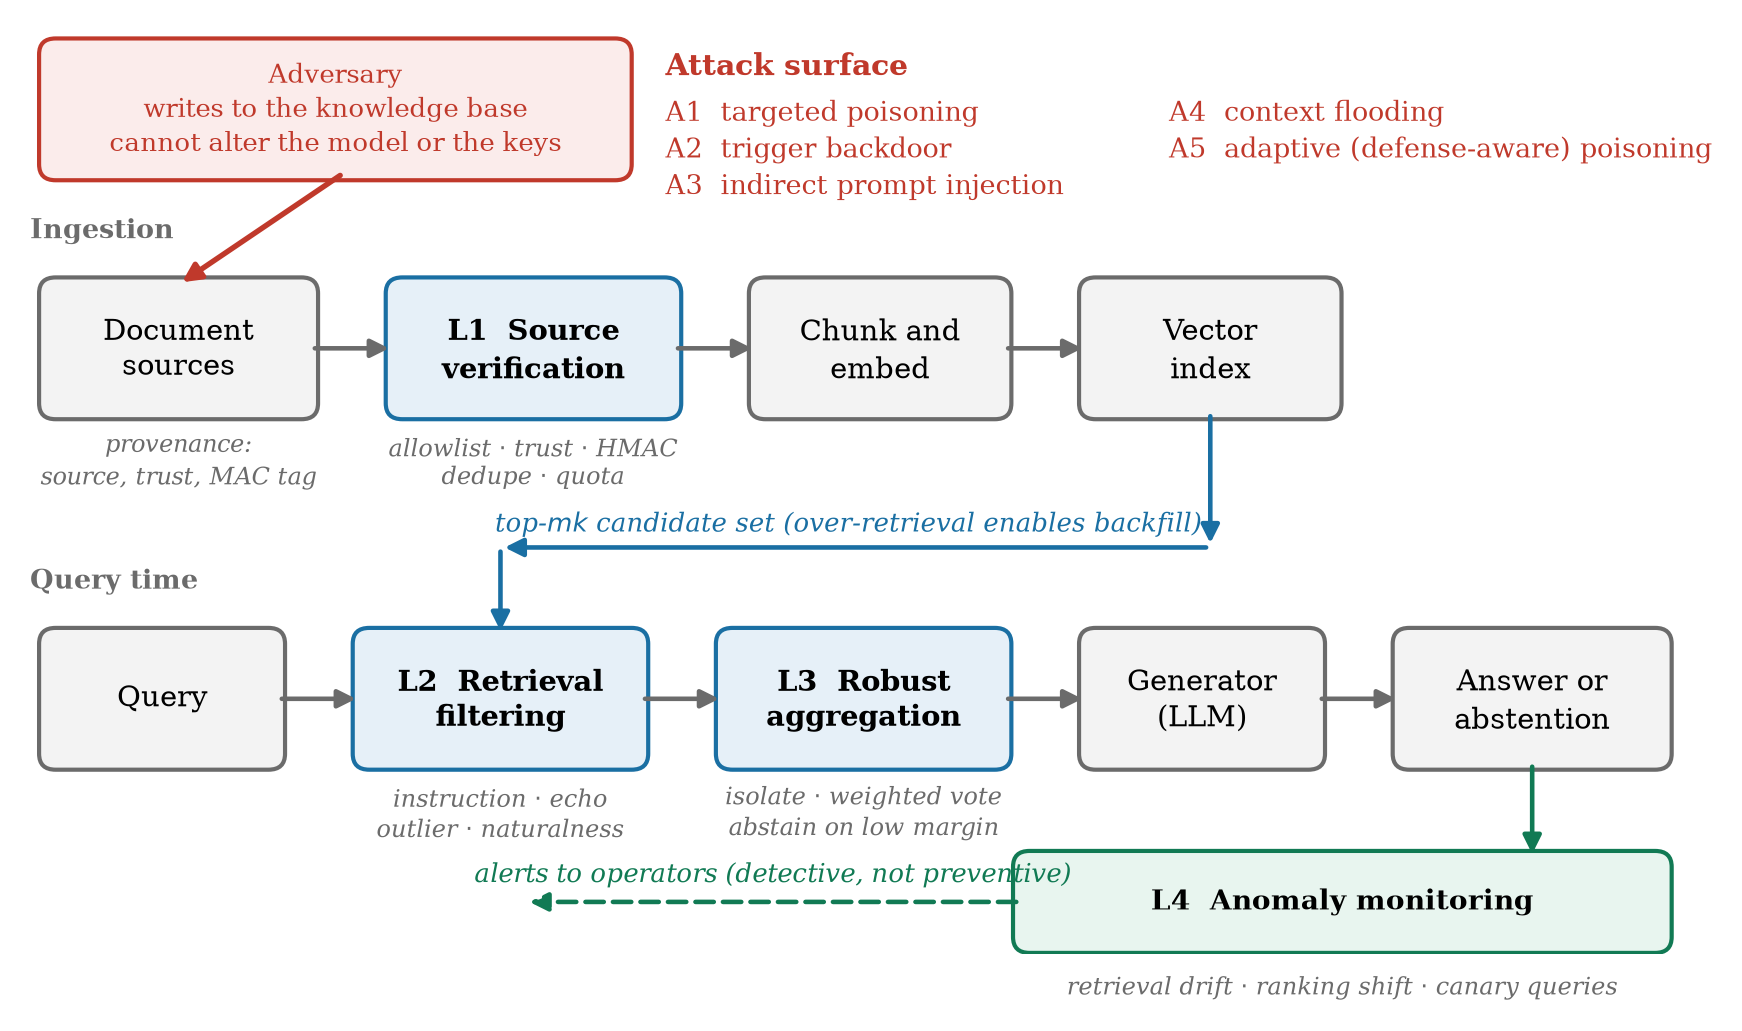
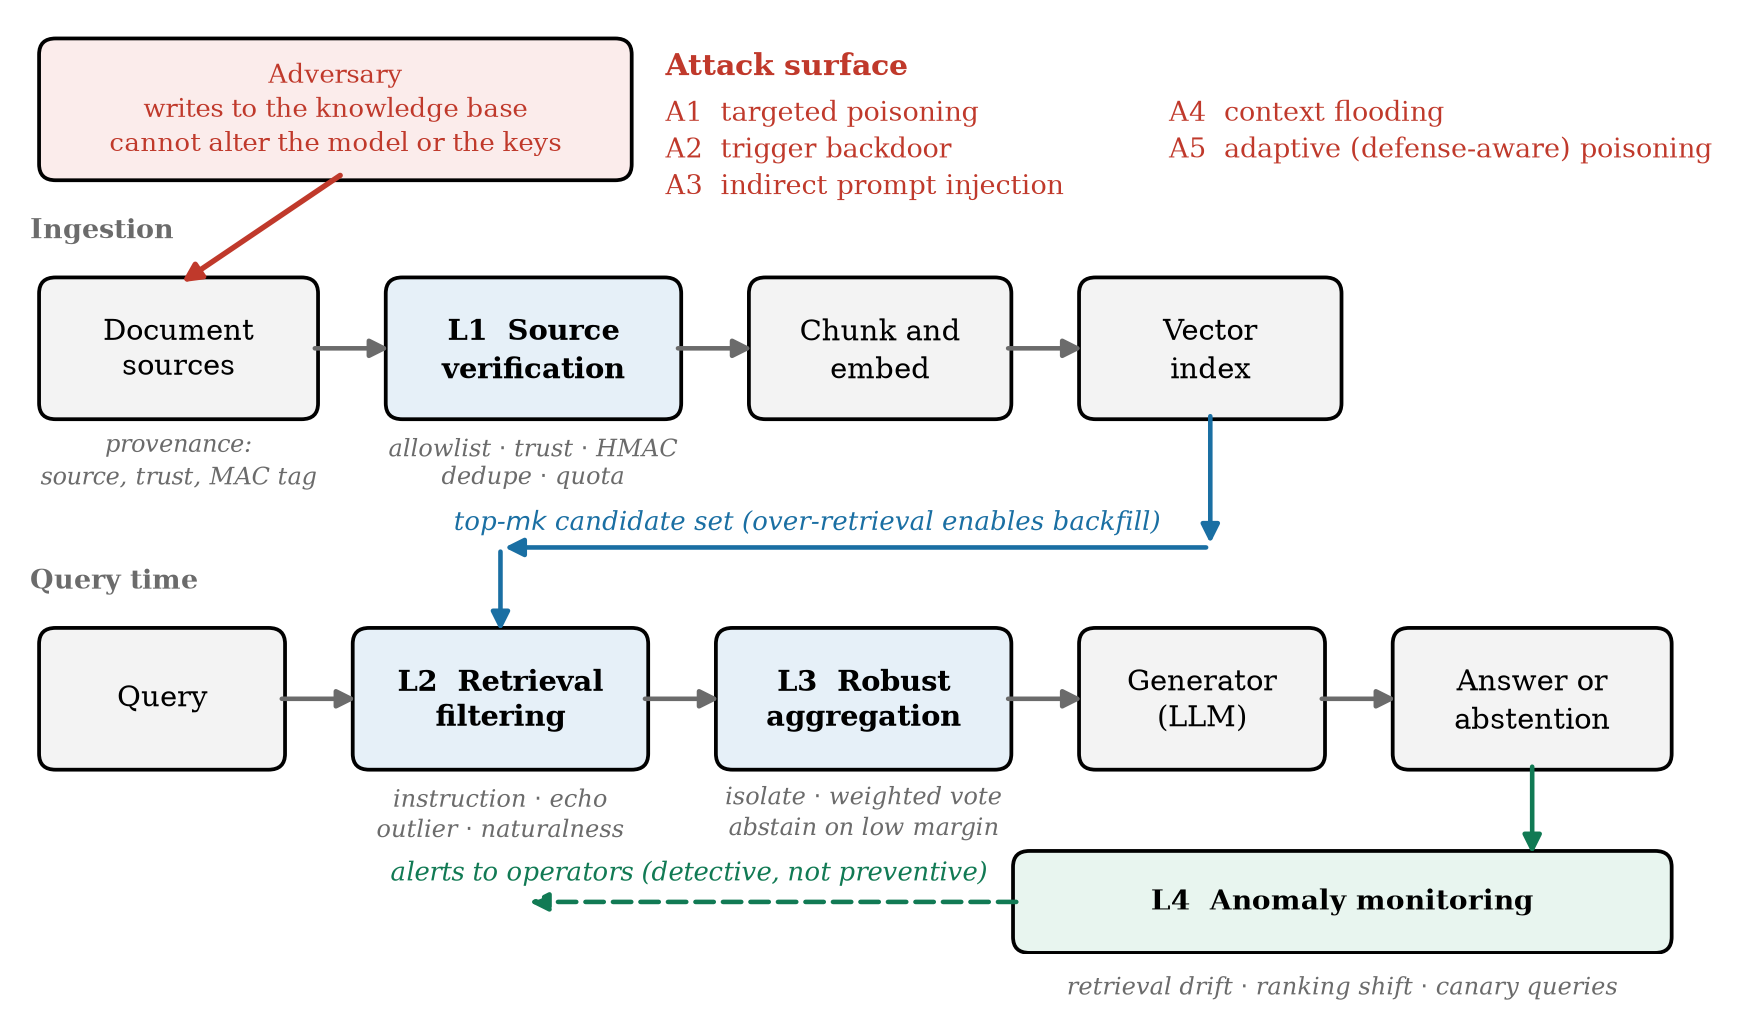
Give Figure 1 black borders and keep its labels clear of the diagram
Every box now draws the same black border, so the fill alone carries the
grouping and the figure still reads in greyscale.

Two labels collided with the drawing rather than with each other. The alerts
label ran under the monitoring box, and is now anchored at the arrow's tail and
set leftwards, so it cannot reach the box however long it gets. The candidate-set
label ended on the arrowhead feeding the filter, and is pulled back clear of it.

Verified by rendering the figure and reading it back, not by inspection of the
coordinates.

diff --git a/ragsec/eval/report.py b/ragsec/eval/report.py
@@ -613,14 +613,17 @@ def fig_architecture(out_dir: Path) -> Path:
     ax.grid(False)
 
     LAYER_FACE, PLAIN_FACE = "#e6f0f8", "#f3f3f3"
+    BOX_EDGE = "black"
 
-    def box(x, y, w, h, title, face, edge, caption="", weight="normal", tc="black",
-            fontsize=7.0):
+    def box(x, y, w, h, title, face, edge=BOX_EDGE, caption="", weight="normal",
+            tc="black", fontsize=7.0):
+        # One border colour for every box, so the fill alone carries the grouping and the
+        # diagram still reads when printed in grey.
         ax.add_patch(
             FancyBboxPatch(
                 (x, y), w, h,
                 boxstyle="round,pad=0.45,rounding_size=1.0",
-                facecolor=face, edgecolor=edge, linewidth=1.0,
+                facecolor=face, edgecolor=BOX_EDGE, linewidth=0.9,
             )
         )
         ax.text(x + w / 2, y + h / 2, title, ha="center", va="center",
@@ -680,19 +683,20 @@ def fig_architecture(out_dir: Path) -> Path:
     arrow(71.5, 34, 71.5, 25.5, C_DEFENSE)
     arrow(71.5, 25.5, 28.5, 25.5, C_DEFENSE)
     arrow(28.5, 25.5, 28.5, 20, C_DEFENSE)
-    ax.text(71, 26.5, "top-$mk$ candidate set (over-retrieval enables backfill)",
+    ax.text(68.5, 26.6, "top-$mk$ candidate set (over-retrieval enables backfill)",
             ha="right", fontsize=6.3, color=C_DEFENSE, style="italic")
 
     # --- monitoring ---------------------------------------------------------
     box(60, 0.5, 39, 5.5, "L4  Anomaly monitoring", "#e8f5ef", C_SIGNED,
         weight="bold", fontsize=6.8)
-    ax.text(79.5, 3.25 - 2.0, "", ha="center")
     ax.text(79.5, -1.4, "retrieval drift $\\cdot$ ranking shift $\\cdot$ canary queries",
             ha="center", va="top", fontsize=5.8, color=C_NEUTRAL, style="italic")
     arrow(91, 12, 91, 6, C_SIGNED)
     arrow(60, 3.25, 30, 3.25, C_SIGNED, ls=(0, (4, 2)))
-    ax.text(45, 4.5, "alerts to operators (detective, not preventive)",
-            ha="center", fontsize=6.2, color=C_SIGNED, style="italic")
+    # Anchored at the arrow's own tail and set leftwards, so the label cannot reach the box
+    # however long it gets.
+    ax.text(58, 4.6, "alerts to operators (detective, not preventive)",
+            ha="right", fontsize=6.2, color=C_SIGNED, style="italic")
 
     return _save(fig, out_dir, "fig1_architecture")
 
